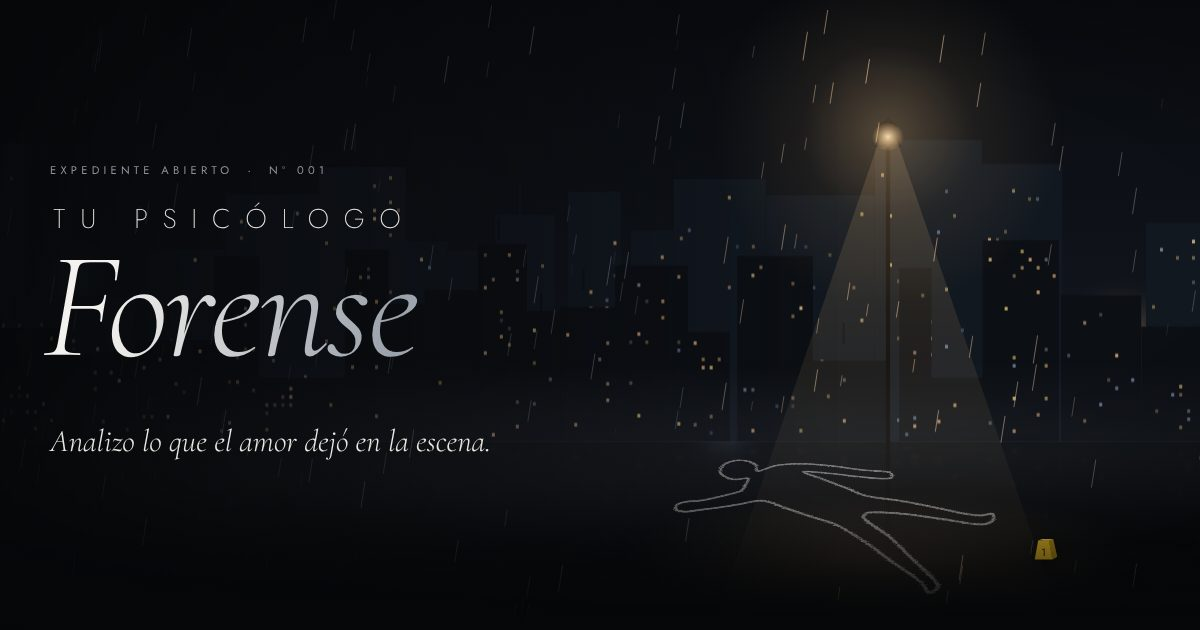
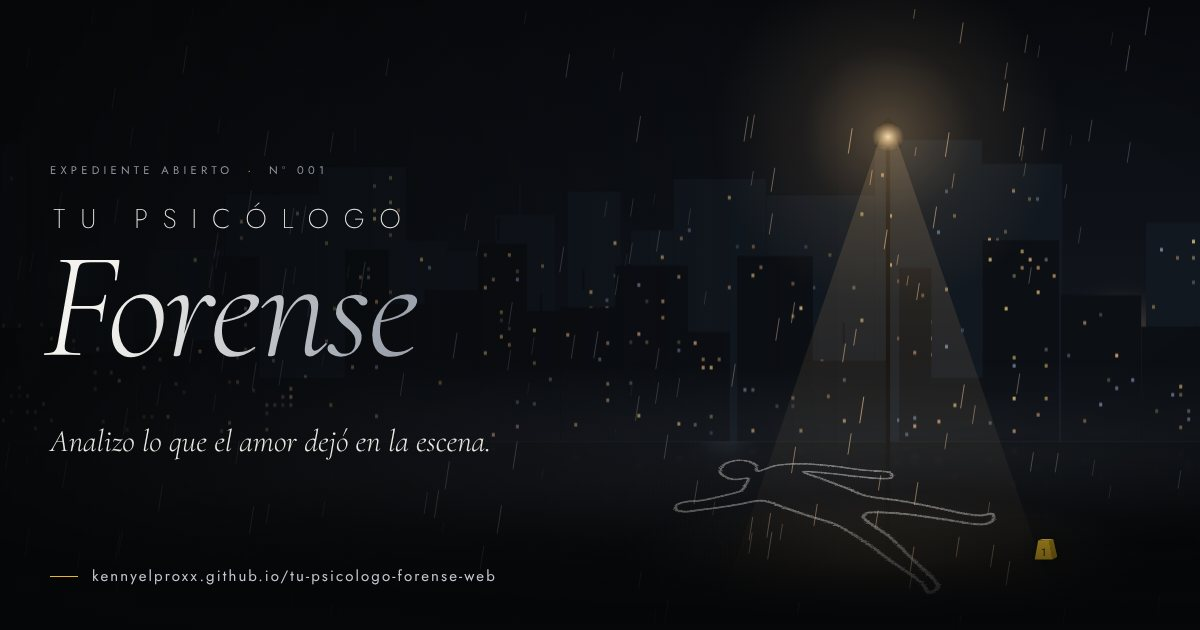
Vista previa para compartir y contenido provisional identificado
- Imagen de vista previa 1200x630 con la URL del sitio
- Etiquetas Open Graph y Twitter con URL completa (og:url, og:image, canonical)
- 20 frases de ejemplo y 8 videos de muestra marcados con "provisional": true
- Redes sin usuarios ni enlaces inventados, listas para completar
- README: renombrar el repositorio antes de activar GitHub Pages

Claude-Session: https://claude.ai/code/session_01QzmXTjKFDUNvFUBw6gPa14

Changed region(s): [[0.0617, 0.9048, 0.4008, 0.9349]]

diff --git a/index.html b/index.html
@@ -8,12 +8,24 @@
   <meta name="theme-color" content="#07080a">
   <meta name="color-scheme" content="dark">
 
-  <!-- Al compartir en redes. Cuando publiques, cambia la imagen por la URL completa (ver README). -->
+  <!-- Vista previa al compartir (WhatsApp, Facebook, X). Si cambia la dirección del sitio, actualiza estas URL. -->
+  <link rel="canonical" href="https://kennyelproxx.github.io/tu-psicologo-forense-web/">
   <meta property="og:type" content="website">
+  <meta property="og:site_name" content="Tu Psicólogo Forense">
+  <meta property="og:locale" content="es_ES">
+  <meta property="og:url" content="https://kennyelproxx.github.io/tu-psicologo-forense-web/">
   <meta property="og:title" content="Tu Psicólogo Forense">
-  <meta property="og:description" content="Analizo lo que el amor dejó en la escena.">
-  <meta property="og:image" content="assets/img/compartir.jpg">
+  <meta property="og:description" content="Analizo lo que el amor dejó en la escena. Frases y videos sobre desamor, nostalgia, soledad y crecimiento personal.">
+  <meta property="og:image" content="https://kennyelproxx.github.io/tu-psicologo-forense-web/assets/img/compartir.jpg">
+  <meta property="og:image:secure_url" content="https://kennyelproxx.github.io/tu-psicologo-forense-web/assets/img/compartir.jpg">
+  <meta property="og:image:type" content="image/jpeg">
+  <meta property="og:image:width" content="1200">
+  <meta property="og:image:height" content="630">
+  <meta property="og:image:alt" content="Tu Psicólogo Forense: silueta de tiza bajo una farola en una calle lluviosa de noche.">
   <meta name="twitter:card" content="summary_large_image">
+  <meta name="twitter:title" content="Tu Psicólogo Forense">
+  <meta name="twitter:description" content="Analizo lo que el amor dejó en la escena.">
+  <meta name="twitter:image" content="https://kennyelproxx.github.io/tu-psicologo-forense-web/assets/img/compartir.jpg">
 
   <script>document.documentElement.classList.add("js");try{if(sessionStorage.getItem("tpf-intro")||matchMedia("(prefers-reduced-motion: reduce)").matches)document.documentElement.classList.add("sin-intro")}catch(e){}</script>
 
